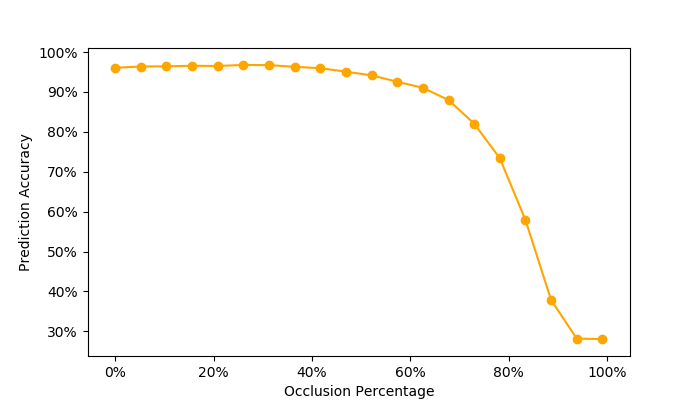
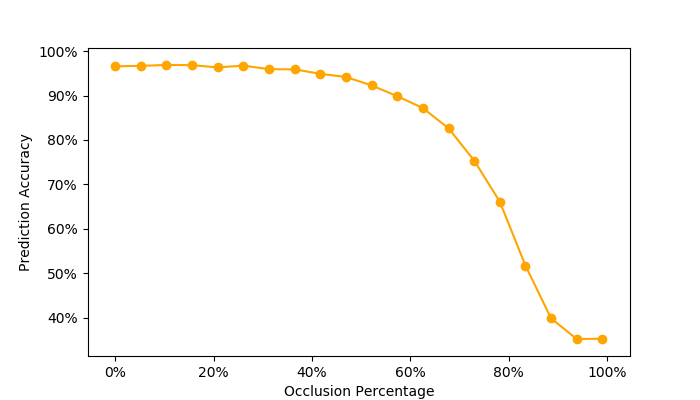
Remade occlusions plot. Preprocessing after occlusions

diff --git a/learn/Q4_occlusions.py b/learn/Q4_occlusions.py
@@ -19,16 +19,6 @@ print("Training Data Len:", len(dataset.train_data))
 print("Validation Data Len:", len(dataset.valid_data))
 print("Test Data Len:", len(dataset.test_data))
 
-#%%
-NUM_SAMPLES = 50
-ANGLES_TO_ROTATE = [5, 10, 15, 45, -5, -10, -15, -45]
-
-from utils.preprocessing import *
-from functools import partial
-dataset.apply(apply_mean_centering)
-dataset.apply(apply_unit_distance_normalization)
-dataset.apply(clean_repeat_points)
-
 #%% Load Model
 from keras.models import load_model
 
@@ -37,7 +27,15 @@ model = load_model(TRAINED_MODEL)
 
 #%%
 import numpy as np
+from utils.preprocessing import *
+from functools import partial
 from utils.research_preprocessing import add_occlusions
+
+dataset.apply(clean_repeat_points)
+
+NUM_SAMPLES = 50
+ANGLES_TO_ROTATE = [5, 10, 15, 45, -5, -10, -15, -45]
+
 
 DROPOUTS_TO_TRY = np.linspace(0.0, 0.99, 20)
 
@@ -46,6 +44,8 @@ scores = []
 for drop in DROPOUTS_TO_TRY:
     curr = dataset.copy()
     curr.apply(partial(add_occlusions, dropout_percentage=drop))
+    curr.apply(apply_mean_centering)
+    curr.apply(apply_unit_distance_normalization)
     curr.apply(partial(spline_interpolate_and_resample, num_samples=NUM_SAMPLES))
     curr.expand(reverse_digit_sequence)
     X_train = np.array(curr.train_data)
